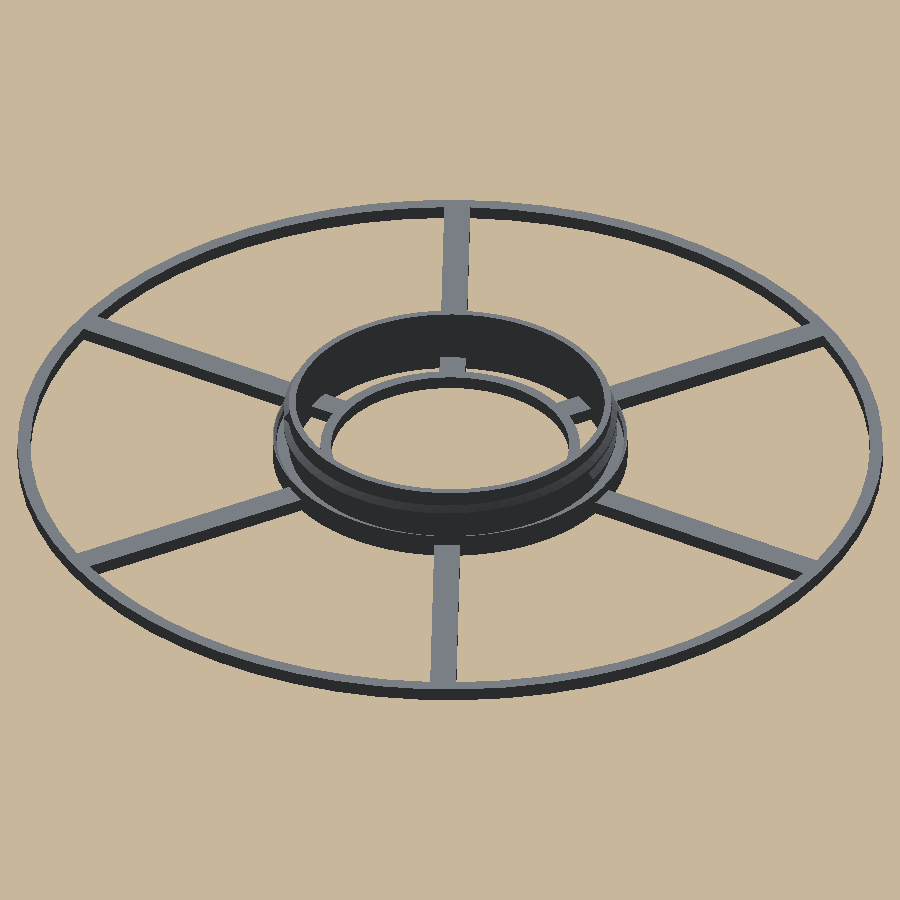
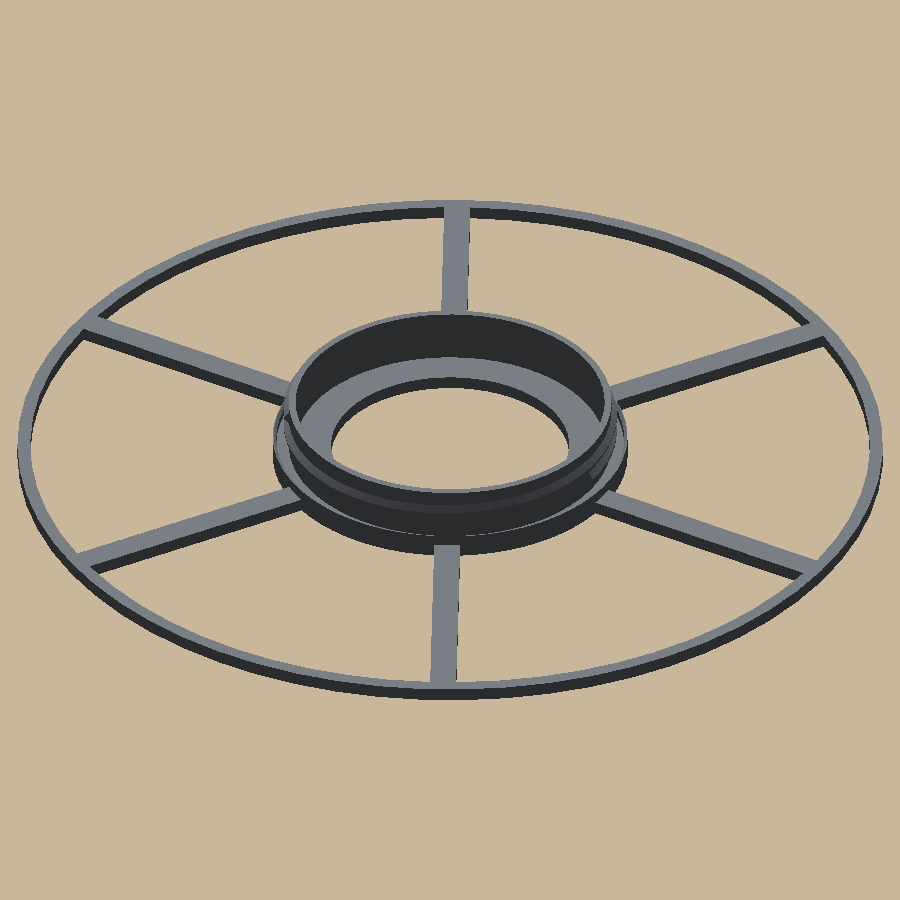
Refill spool: strap tracks instead of through-slots, solid cap hub (81.7 g)
A tie pushed down a through-slot could wander into the barrel. Each strap now runs in a 0.4 mm groove on the
barrel's outside that the core closes into a tunnel, out through the flange; the barrel is one tube and the nut
thread unbroken. The cap's flange is solid from the bore to the lip.

Changed region(s): [[0.3422, 0.3733, 0.6844, 0.4978]]

diff --git a/examples/refill-spool/tests/test_parts.py b/examples/refill-spool/tests/test_parts.py
@@ -2,15 +2,17 @@
 import pytest
 
 from cadkit.checks import downward_faces, off_layer_z, open_edges, overhangs, printable_problems
-from probes import radial, tangential_gap
+from build123d import Pos
+
+from probes import radial, radial_z, tangential_gap
 from refill_spool.params import P
-from refill_spool.parts import barrel_half, cap, center
+from refill_spool.parts import barrel_half, cap, center, ring
 
 C = center(P)
 BORE = P.bore_d / 2
 R_OUT = P.barrel_d / 2
 LOW = P.flange_t / 2
-PLAIN_GAP = 360 / P.spokes  # between spokes 1 and 2: no strap slot (straps are 0.5, 2.5, 4.5 steps round)
+PLAIN_GAP = 360 / P.spokes  # between spokes 1 and 2: no strap track (straps are 0.5, 2.5, 4.5 steps round)
 
 
 @pytest.fixture(scope="module")
@@ -47,7 +49,7 @@ def test_barrel_half_flange_is_solid_out_to_the_barrel_then_rim(barrel):
     """The barrel stands on a solid floor all round, not just where the spokes cross it."""
     for a in range(0, 360, 5):
         if min(abs((a - s + 180) % 360 - 180) for s in P.strap_angles()) < 15:
-            continue  # strap slots, below
+            continue  # strap tracks, below
         assert radial(barrel, C, a + 2.5, LOW, r0=BORE + P.notch_h + 0.5, r1=R_OUT) == [pytest.approx(
             (BORE + P.notch_h + 0.5, R_OUT), abs=0.02)], a
     assert radial(barrel, C, PLAIN_GAP / 2 + PLAIN_GAP, LOW) == [
@@ -56,12 +58,22 @@ def test_barrel_half_flange_is_solid_out_to_the_barrel_then_rim(barrel):
 
 
 @pytest.mark.parametrize("angle", P.strap_angles())
-def test_strap_slot_runs_the_barrels_full_length(barrel, angle):
+def test_strap_track_is_a_groove_the_barrels_full_length(barrel, angle):
+    """A strap pushed in at the top can only come out at the bottom: the track has a wall behind it the whole way
+    down (the barrel isn't slotted through), and opens out through the flange under it."""
     for z in (LOW, P.barrel_top / 2, P.barrel_top - 0.1):
-        pieces = radial(barrel, C, angle, z, r0=P.nut_root - P.thread_depth, r1=P.rim_in - 0.5)
-        assert pieces == [], (z, pieces)
-    assert tangential_gap(barrel, C, angle, R_OUT - P.barrel_wall / 2, P.barrel_top / 2) == pytest.approx(
+        pieces = radial(barrel, C, angle, z, r0=BORE + P.bore_wall + 0.5, r1=P.rim_in - 0.5)
+        assert pieces[-1][1] == pytest.approx(P.track_floor, abs=0.02), (z, pieces)
+    behind = radial_z(barrel, C, angle, (P.nut_root + P.track_floor) / 2)
+    assert behind == [pytest.approx((0, P.barrel_top), abs=1e-3)]
+    assert tangential_gap(barrel, C, angle, (P.track_floor + R_OUT) / 2, P.barrel_top / 2) == pytest.approx(
         P.strap_w, abs=0.05)
+
+
+def test_barrel_is_one_tube_with_the_thread_unbroken(barrel):
+    """No through-slots: the barrel above the floor is one piece, and the nut ridge runs all round."""
+    above = barrel & (Pos(*C, LOW + P.flange_t) * ring(P.nut_root - P.thread_depth - 0.5, R_OUT + 1, P.barrel_top))
+    assert len(above.solids()) == 1
 
 
 def test_spokes_reach_from_hub_to_rim(barrel, capp):
@@ -94,10 +106,10 @@ def test_ams_lite_notch(barrel):
 
 
 def test_cap_flange_spigot_and_lip(capp):
+    """The cap's flange is solid from the bore out to the lip, so the bore ring isn't hung on the spokes."""
     lip_out = P.barrel_d / 2 + P.lip_clear + P.lip_t
     assert radial(capp, C, PLAIN_GAP * 1.5, LOW) == [
-        pytest.approx((BORE, BORE + P.cap_hub_wall), abs=0.02),
-        pytest.approx((P.bolt_root - P.spigot_wall, lip_out), abs=0.02),
+        pytest.approx((BORE, lip_out), abs=0.02),
         pytest.approx((P.rim_in, P.rim_d / 2), abs=0.02)]
     lip = radial(capp, C, PLAIN_GAP * 1.5, P.flange_t + 0.1, r0=P.barrel_d / 2 - 0.5, r1=P.rim_in - 0.5)
     assert lip == [pytest.approx((P.barrel_d / 2 + P.lip_clear, lip_out), abs=0.02)]

diff --git a/examples/refill-spool/refill_spool/params.py b/examples/refill-spool/refill_spool/params.py
@@ -30,9 +30,8 @@ class Params:
     notch_h: float = 3.0  # radial, into the bore wall
     notch_w: float = 3.0
     # cap
-    cap_hub_wall: float = 2.5
     spigot_wall: float = 1.6
-    lip_h: float = 2.4  # ring on the cap flange round the barrel's top: holds the slotted barrel's strips in
+    lip_h: float = 2.4  # ring on the cap flange round the barrel's top: keeps the thin barrel from spreading
     lip_t: float = 0.8
     lip_clear: float = 0.2  # radial, outside the barrel
     lip_chamfer: float = 0.6  # lead-in on the lip's inner tip
@@ -45,12 +44,13 @@ class Params:
     min_turns: float = 1.5  # engaged, screwed home
     min_play: float = 0.25  # axial, each flank: printed threads need room
     thread_flank: float = 40.0  # degrees off the axis
-    # straps: zip ties under the core (in the barrel slots), out through the flanges, over the coil
+    # straps: zip ties under the core (in tracks on the barrel), out through the flange, over the coil
     straps: int = 3
-    strap_w: float = 10.0  # slot width in the barrel
-    strap_t: float = 1.5  # thickest strap the path must pass
+    strap_w: float = 7.0  # track width: a groove in the barrel's outside, a tunnel once the core is over it
+    strap_t: float = 1.2  # thickest strap the track must pass (zip ties up to ~6 x 1.2 mm)
+    track_wall: float = 0.8  # barrel wall left behind the track
     filament: int = 3  # AMS slot: the user's PLA
-    max_grams: float = 80.0  # both halves, as Bambu Studio slices them (the user's solid printed ones are ~220)
+    max_grams: float = 85.0  # both halves, as Bambu Studio slices them (the user's solid printed ones are ~220)
     printer: Printer = Printer()
 
     def __post_init__(self):
@@ -81,6 +81,11 @@ class Params:
     def bolt_root(self) -> float:
         """Outside radius of the cap's spigot wall: its crest sits thread_clear inside the nut's root."""
         return self.nut_root - self.thread_clear - self.thread_depth
+
+    @property
+    def track_floor(self) -> float:
+        """Radius of each strap track's floor (flat, at its middle)."""
+        return self.nut_root + self.track_wall
 
     @property
     def rim_in(self) -> float:

diff --git a/examples/refill-spool/refill_spool/parts.py b/examples/refill-spool/refill_spool/parts.py
@@ -80,7 +80,7 @@ def barrel_half_centered(p: Params = P) -> Part:
     part += thread(p.nut_root, p.thread_depth, p.pitch, z1 - z0, p.thread_crest, inward=True, z0=z0,
                    flank=p.thread_flank)
     for a in p.strap_angles():
-        part -= radial_box(a, p.nut_root - p.thread_depth - 0.5, p.barrel_d / 2 + 0.5, p.strap_w, top + 1, -0.5)
+        part -= radial_box(a, p.track_floor, p.barrel_d / 2 + 0.5, p.strap_w, top + 1, -0.5)  # strap track
     part -= radial_box(0, p.bore_d / 2 - 0.5, p.bore_d / 2 + p.notch_h, p.notch_w, p.notch_depth + 0.5, -0.5)
     part = Part(part.solids())
     part.label = "barrel_half"
@@ -90,10 +90,9 @@ def barrel_half_centered(p: Params = P) -> Part:
 def cap_centered(p: Params = P) -> Part:
     top = p.flange_t + p.thread_len
     inner = p.bolt_root - p.spigot_wall
-    part = flange(p) + ring(p.bore_d / 2, p.bore_d / 2 + p.cap_hub_wall, p.flange_t)
     lip_in = p.barrel_d / 2 + p.lip_clear
     lip_out = lip_in + p.lip_t
-    part += ring(inner, lip_out, p.flange_t)  # under the spigot's ridge and the lip
+    part = flange(p) + ring(p.bore_d / 2, lip_out, p.flange_t)  # solid from the bore out under the spigot and lip
     lip = Pos(0, 0, p.flange_t) * ring(lip_in, lip_out, p.lip_h)
     tip = p.flange_t + p.lip_h - p.lip_chamfer
     lead_in = Cone(lip_in, lip_in + p.lip_chamfer, p.lip_chamfer, align=UP) - Cylinder(lip_in - 1, p.lip_chamfer,

diff --git a/examples/refill-spool/tests/test_assembly.py b/examples/refill-spool/tests/test_assembly.py
@@ -58,7 +58,7 @@ def test_ridge_check_can_fail():
 
 
 def test_strap_paths_are_clear_with_the_cap_off():
-    """Straps go on with the cap off (on, they'd stop it turning): each runs under the core in a barrel slot, out
+    """Straps go on with the cap off (on, they'd stop it turning): each runs down a track under the core, out
     through the barrel half's flange, and back over the coil inside the rim."""
     (barrel_name, barrel), _ = placed_parts(P)
     things = [(barrel_name, barrel), ("coil", coil(P))]
@@ -75,8 +75,8 @@ def test_strapped_coil_lifts_off_the_barrel(lift):
 
 
 def test_cap_lip_holds_the_barrel_top_in():
-    """The barrel's strips are only joined at the bottom: screwed home, a lip on the cap wraps their top ends so
-    the thread can't push them apart, lip_clear outside them."""
+    """Screwed home, a lip on the cap wraps the barrel's top, lip_clear outside it, so the thread can't spread the
+    thin barrel."""
     (_, barrel), (_, cap) = placed_parts(P)
     lip = cap & (Pos(0, 0, P.barrel_top - P.lip_h) * ring(P.barrel_d / 2, P.barrel_d / 2 + 5, P.lip_h))
     bb = lip.bounding_box()

diff --git a/examples/refill-spool/tests/probes.py b/examples/refill-spool/tests/probes.py
@@ -27,3 +27,12 @@ def tangential_gap(part, center, angle, r, z, span=30.0, w=0.1):
     lo = max(t[-1] for t in along if t[-1] <= 0.001)
     hi = min(t[0] for t in along if t[0] >= -0.001)
     return hi - lo
+
+
+def radial_z(part, center, angle, r, z0=-1.0, z1=200.0, w=0.1):
+    """(z_lo, z_hi) of each solid piece a thin vertical bar at radius r, `angle` degrees, cuts."""
+    cx, cy = center
+    a = math.radians(angle)
+    bar = Pos(cx + r * math.cos(a), cy + r * math.sin(a), z0) * Box(w, w, z1 - z0, align=(Align.CENTER,
+                                                                                         Align.CENTER, Align.MIN))
+    return sorted((round(b.min.Z, 3), round(b.max.Z, 3)) for b in (s.bounding_box() for s in (part & bar).solids()))

diff --git a/examples/refill-spool/refill_spool/assembly.py b/examples/refill-spool/refill_spool/assembly.py
@@ -17,7 +17,7 @@ def coil(p: Params = P) -> Part:
 
 
 def strap_paths(p: Params = P) -> list[Part]:
-    """One loop per strap, strap_t thick and a mm narrower than the slot: under the core in the barrel slot, out
+    """One loop per strap, strap_t thick and a mm narrower than the track: under the core in its track, out
     through both flanges, along each outer face, and back over the coil inside the rim."""
     t, w, gap = p.strap_t, p.strap_w - 1, 0.05
     top = ((p.core_d / 2 - gap) ** 2 - (w / 2) ** 2) ** 0.5  # the box's corners stay inside the core

diff --git a/examples/refill-spool/README.md b/examples/refill-spool/README.md
@@ -2,10 +2,10 @@
 
 <img src="docs/images/iso.png" width="49%" alt="Barrel half with the cap lifted off, one strap loop in orange"> <img src="docs/images/top.png" width="49%" alt="Barrel half from above">
 
-A reusable spool for Bambu Lab 1 kg refill coils, made to use as little filament as possible: about 78 g of PLA
-for both halves, against ~220 g for a solid printed spool. Spoked flanges with a thin rim, a slotted Ø80 barrel,
+A reusable spool for Bambu Lab 1 kg refill coils, made to use as little filament as possible: about 82 g of PLA
+for both halves, against ~220 g for a solid printed spool. Spoked flanges with a thin rim, a Ø80 barrel with strap tracks,
 and a cap that screws into the barrel top. It fits the AMS lite (Ø55 bore with the drive notch, 65 mm wide).
-Zip ties thread through the barrel slots and round the coil, so the coil comes off in one piece.
+Zip ties run down tracks under the coil's core and round the coil, so the coil comes off in one piece.
 
 ```bash
 uv sync
@@ -17,10 +17,13 @@ Print both halves outer face down, no supports (PLA, AMS slot 3; don't dry filam
 that side toward the drive.
 
 - **Load a refill:** slide it onto the barrel half (any of the refill's own ties that run under the core go in the
-  slots), screw the cap on until its flange lands on the barrel top, then cut the refill's ties and pull them out
+  tracks), screw the cap on until its flange lands on the barrel top, then cut the refill's ties and pull them out
   between the spokes.
 - **Take a part-used coil off:** lay the spool barrel half down and unscrew the cap first (straps on, it can't
-  turn). Thread zip ties down the open slots and round the coil, then lift the coil off.
+  turn). Push a zip tie (up to ~6 × 1.2 mm) down each of the three tracks from the barrel top: the core closes
+  the track over, so it comes out through the flange underneath. Close each round the coil, then lift the coil off.
+
+  <img src="docs/images/track.png" width="30%" alt="Slice through a strap track: barrel wall, zip tie, coil core">
 
 Design and decisions: [docs/specs/refill-spool.md](docs/specs/refill-spool.md). Sizes it depends on:
 [docs/measurements.md](docs/measurements.md).

diff --git a/examples/refill-spool/docs/specs/refill-spool.md b/examples/refill-spool/docs/specs/refill-spool.md
@@ -19,8 +19,8 @@ the spool in one piece.
 - **Straps:** 3 slots, 10 mm wide, run the barrel's full length midway between spokes. A strap goes under the core
   in a slot, out through both flanges between the spokes, and back over the coil inside the rim (needs the coil
   under Ø190; measure a full one). Tests model each loop at 1.5 mm thick and require it to touch nothing.
-- **Filament:** PLA, AMS slot 3 (see amendments). Bambu Studio slices the pair at 77.5 g; the tests hold
-  it under 80 g.
+- **Filament:** PLA, AMS slot 3 (see amendments). Bambu Studio slices the pair at 81.7 g; the tests hold
+  it under 85 g.
 
 All sizes live in `refill_spool/params.py`.
 
@@ -46,3 +46,12 @@ All sizes live in `refill_spool/params.py`.
   six spokes crossed them, two small contacts per strip. The barrel half's flange is now solid from the bore out to
   the barrel's outside (Ø55 to Ø80, flange_t thick), open only at the three strap slots. +2.9 g: 77.5 g sliced
   (barrel half 53.6 g, cap 23.9 g).
+- **2026-10-20: strap tracks instead of slots; solid cap hub.** From the user:
+  - A tie pushed down a through-slot could wander into the barrel and miss the opening at the bottom. Each strap
+    now has a track: a 7 mm groove in the barrel's outside, 0.4 mm deep, leaving 0.8 mm of wall behind it. With
+    the core over it, the track is a closed tunnel 1.4 mm deep from the barrel top out through the flange, so it
+    takes zip ties up to ~6 × 1.2 mm. The barrel is one tube again and the nut thread runs unbroken. The cap lip
+    stays (it keeps the 1.2 mm barrel from spreading and centers the cap).
+  - The cap's bore ring met the rest of the cap only at the spokes, like the barrel did. The cap's flange is now
+    solid from the bore out to the lip.
+  - 81.7 g sliced (barrel half 55.9 g, cap 25.8 g); budget 85 g.

diff --git a/CLAUDE.md b/CLAUDE.md
@@ -22,8 +22,8 @@
 - `examples/sharpie-colorizer/`: an inline Sharpie colorizer for the A1's external-spool guide tube (package
   `sharpie_colorizer`): a snap clip on the 40 × 20 frame bar and a block holding three tilted markers; fit-test
   plate first.
-- `examples/refill-spool/`: a ~78 g two-piece spool for Bambu refill coils (package `refill_spool`): spoked flanges,
-  slotted barrel for zip-tie straps, screw-on cap, AMS lite bore notch. Threads from `cadkit.shapes.thread`.
+- `examples/refill-spool/`: a ~82 g two-piece spool for Bambu refill coils (package `refill_spool`): spoked flanges,
+  barrel with zip-tie strap tracks, screw-on cap, AMS lite bore notch. Threads from `cadkit.shapes.thread`.
 - `examples/sunflower-wall/`: a 400 mm wall sunflower (package `sunflower`): lofted arched petals in quarters, a
   Fibonacci seed head of ~1,100 diamond seeds, snap pins.
 

diff --git a/README.md b/README.md
@@ -31,7 +31,7 @@ one, a wall sunflower (`examples/sunflower-wall`), shows organic shapes and mult
 ├── examples/
 │   ├── fit-coupon/                smallest complete project: start here; the template for `cadkit.new`
 │   ├── candle-adapter/            one black part, glued into a chandelier cup
-│   ├── refill-spool/              a 78 g screw-together spool for Bambu refills, threads and strap slots
+│   ├── refill-spool/              an 82 g screw-together spool for Bambu refills, threads and strap tracks
 │   ├── near-ceiling-track/        everything at scale: an HO railroad shelf around a room, ~220 tests
 │   └── sunflower-wall/            a 16" wall sunflower kit and a 10" one-piece print, four AMS colors
 ├── docs/specs/                    decisions about the tool itself

diff --git a/examples/refill-spool/docs/measurements.md b/examples/refill-spool/docs/measurements.md
@@ -13,5 +13,6 @@
 Still to measure on a real refill:
 - coil width including its own ties (must be under 59 mm; 0.5 mm a side is all the room there is);
 - full coil outside diameter (straps pass over it inside the rim at Ø194; the model assumes Ø190);
-- how many ties run under the core and how they're spaced (they only fit in the barrel's 3 slots, 120° apart);
+- the core's inside diameter: the strap tracks are tunnels 1.4 mm deep only if it's 82 (less and ties won't fit);
+- how many ties run under the core and how they're spaced (they only fit in the barrel's 3 tracks, 120° apart);
 - how far the AMS lite hub reaches into the bore (the bore is a tube the full 65 mm, so any reach works).
